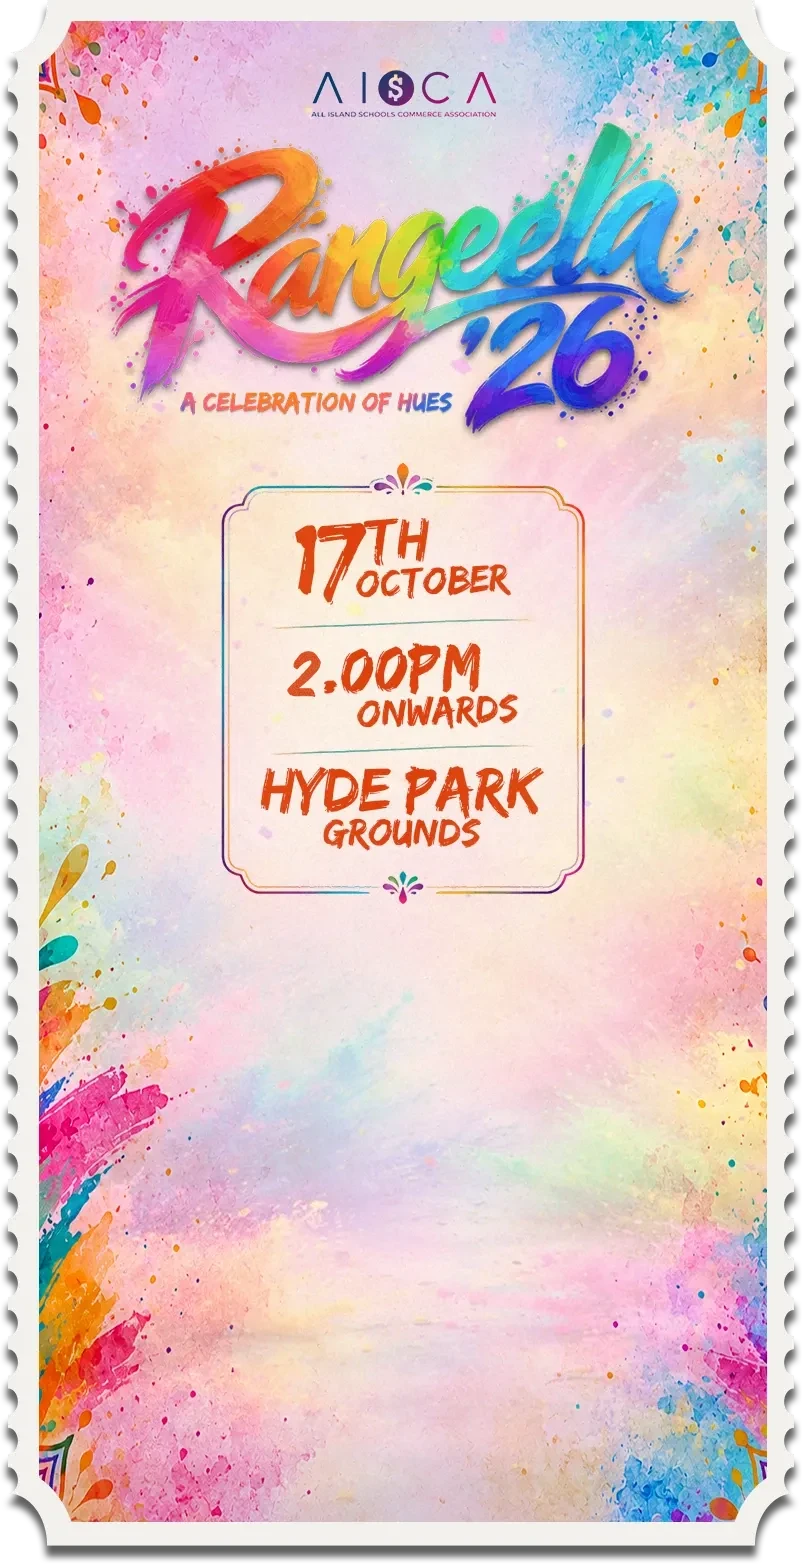
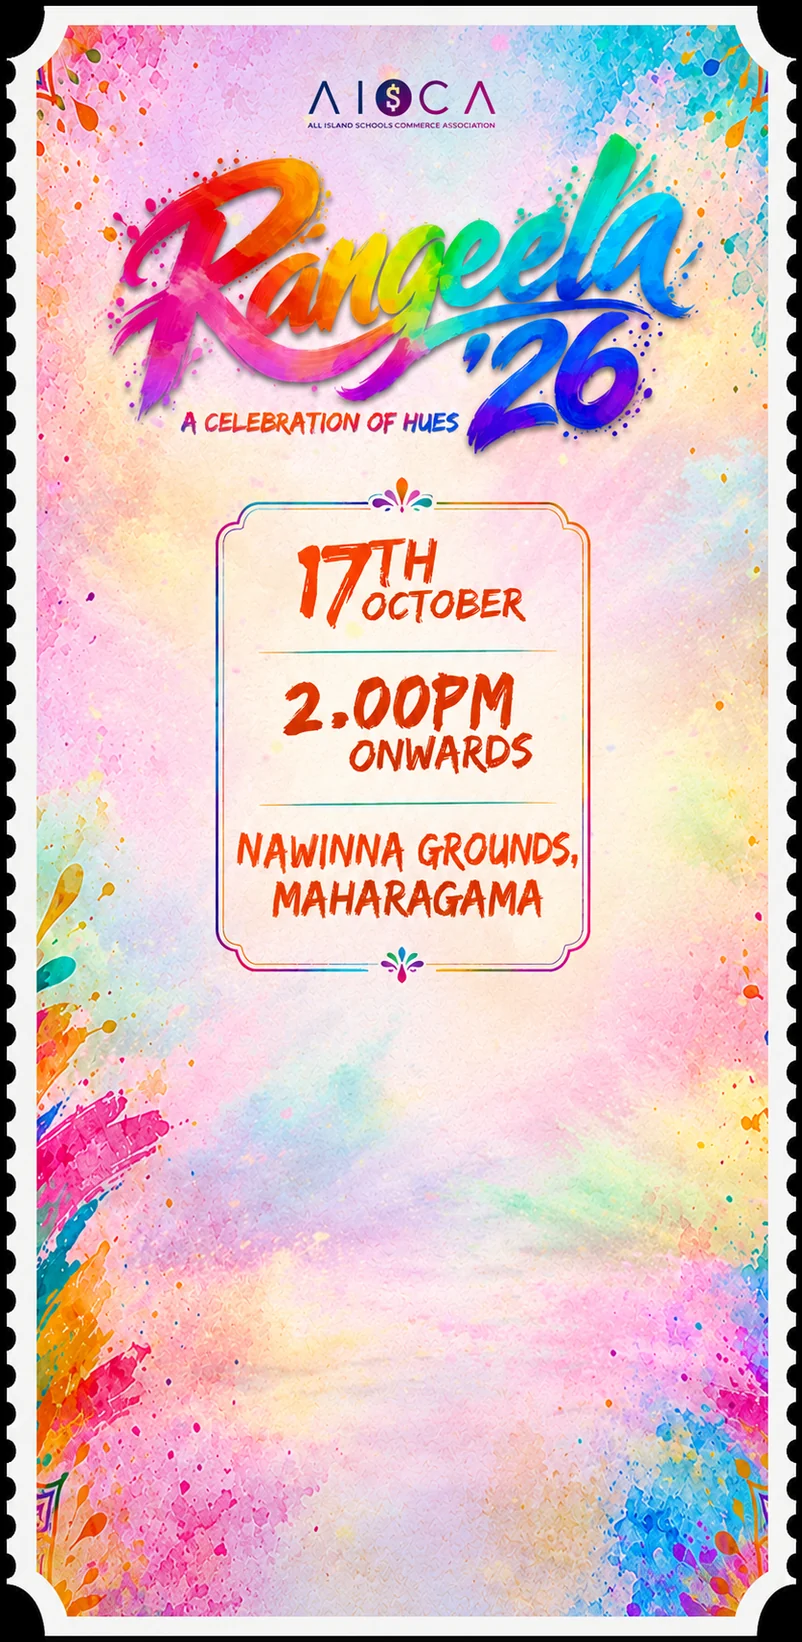
RANGEELA 26: new ticket artwork and Maharagama in the venue

diff --git a/src/app/rangeela26/page.tsx b/src/app/rangeela26/page.tsx
@@ -7,19 +7,19 @@ export const dynamic = 'force-dynamic'
 export const metadata: Metadata = {
   title: "RANGEELA '26 | A Celebration of Hues",
   description:
-    "RANGEELA '26 by AISCA. One canvas, a thousand hues. Saturday 17th October 2026, 2.00 PM onwards at Nawinna Grounds. Early bird tickets LKR 1,000 until 10th October, then LKR 1,200 online and LKR 1,500 at the gate.",
+    "RANGEELA '26 by AISCA. One canvas, a thousand hues. Saturday 17th October 2026, 2.00 PM onwards at Nawinna Grounds, Maharagama. Early bird tickets LKR 1,000 until 10th October, then LKR 1,200 online and LKR 1,500 at the gate.",
   alternates: { canonical: 'https://aisca.lk/rangeela26' },
   openGraph: {
     type: 'website',
     url: 'https://aisca.lk/rangeela26',
     title: "RANGEELA '26 | A Celebration of Hues",
-    description: 'The colours are calling. 17th October, Nawinna Grounds, 2.00 PM onwards. Early bird tickets LKR 1,000.',
+    description: 'The colours are calling. 17th October, Nawinna Grounds, Maharagama, 2.00 PM onwards. Early bird tickets LKR 1,000.',
     images: [{ url: 'https://aisca.lk/rangeela/og.jpg', width: 1200, height: 630, alt: "RANGEELA '26 A Celebration of Hues" }],
   },
   twitter: {
     card: 'summary_large_image',
     title: "RANGEELA '26 | A Celebration of Hues",
-    description: 'The colours are calling. 17th October, Nawinna Grounds. Early bird tickets LKR 1,000.',
+    description: 'The colours are calling. 17th October, Nawinna Grounds, Maharagama. Early bird tickets LKR 1,000.',
     images: ['https://aisca.lk/rangeela/og.jpg'],
   },
 }

diff --git a/src/app/rangeela26/ticket/[token]/TicketView.tsx b/src/app/rangeela26/ticket/[token]/TicketView.tsx
@@ -4,12 +4,12 @@ import { useState } from 'react'
 
 // The RANGEELA '26 ticket, drawn on the official ticket artwork with the
 // student's own QR code, name and ticket number in the empty space.
-// Positions are percentages of the artwork (802 x 1564) so it looks the
+// Positions are percentages of the artwork (802 x 1642) so it looks the
 // same on every screen, and "Save ticket" paints the same layout onto a
 // canvas so students can keep a copy in their photos.
 
 const W = 802
-const H = 1564
+const H = 1642
 const INK = '#241628'
 const ORANGE = '#D9480F'
 const VIOLET = '#7B2FF7'
@@ -18,11 +18,11 @@ const BODY = "'Inter', -apple-system, BlinkMacSystemFont, system-ui, sans-serif"
 
 // Layout on the artwork, in artwork pixels
 const L = {
-  nameY: 948,
-  schoolY: 992,
-  qrX: 214, qrY: 1020, qrSize: 374, qrPad: 20,
-  pillY: 1432,
-  noteY: 1482,
+  nameY: 1024,
+  schoolY: 1067,
+  qrX: 216, qrY: 1095, qrSize: 369, qrPad: 20,
+  pillY: 1503,
+  noteY: 1556,
 }
 
 type Props = {
@@ -151,7 +151,7 @@ export default function TicketView(p: Props) {
               <a className="tk-btn tk-btn-wa" href={p.whatsappGroup} target="_blank" rel="noopener noreferrer">Join the WhatsApp group</a>
             </div>
             {saveError && <p className="tk-err">{saveError}</p>}
-            <p className="tk-foot">Saturday, 17th October 2026 · 2.00 PM onwards · Nawinna Grounds</p>
+            <p className="tk-foot">Saturday, 17th October 2026 · 2.00 PM onwards · Nawinna Grounds, Maharagama</p>
           </>
         )}
       </div>

diff --git a/src/lib/rangeela-email.ts b/src/lib/rangeela-email.ts
@@ -87,7 +87,7 @@ export async function sendRangeelaReceivedEmail({ to, name, ticketNumber, amount
         <td width="4"></td>
         <td width="33%" style="padding:10px 6px;text-align:center;background:#EEF6FF;border-radius:12px;"><p style="margin:0;font-size:10px;letter-spacing:1.5px;text-transform:uppercase;color:#6B7FA0;font-family:${FONT};">Time</p><p style="margin:4px 0 0;font-size:14px;font-weight:bold;color:#2563EB;font-family:${FONT};">2.00 PM onwards</p></td>
         <td width="4"></td>
-        <td width="33%" style="padding:10px 6px;text-align:center;background:#F5EEFF;border-radius:12px;"><p style="margin:0;font-size:10px;letter-spacing:1.5px;text-transform:uppercase;color:#8A76A8;font-family:${FONT};">Venue</p><p style="margin:4px 0 0;font-size:14px;font-weight:bold;color:#7B2FF7;font-family:${FONT};">Nawinna Grounds</p></td>
+        <td width="33%" style="padding:10px 6px;text-align:center;background:#F5EEFF;border-radius:12px;"><p style="margin:0;font-size:10px;letter-spacing:1.5px;text-transform:uppercase;color:#8A76A8;font-family:${FONT};">Venue</p><p style="margin:4px 0 0;font-size:14px;font-weight:bold;color:#7B2FF7;font-family:${FONT};">Nawinna Grounds, Maharagama</p></td>
       </tr>
     </table>
   </td></tr>

diff --git a/src/app/rangeela26/RangeelaClient.tsx b/src/app/rangeela26/RangeelaClient.tsx
@@ -235,7 +235,7 @@ export default function RangeelaClient({ serverNow }: { serverNow: number }) {
             {[
               { icon: CalendarDays, label: 'Date', value: RANGEELA.dateShort, sub: 'Saturday', color: C.orange },
               { icon: Clock, label: 'Time', value: '2.00 PM', sub: 'onwards', color: C.magenta },
-              { icon: MapPin, label: 'Venue', value: 'Nawinna', sub: 'Grounds', color: C.blue },
+              { icon: MapPin, label: 'Venue', value: 'Nawinna', sub: 'Grounds, Maharagama', color: C.blue },
               { icon: Ticket, label: early ? 'Early bird' : 'Ticket', value: lkr(price), sub: early ? 'until 10th Oct' : 'online, per person', color: C.violet },
             ].map((x) => (
               <div key={x.label} className="lg-glass lg-fact">

diff --git a/src/lib/rangeela.ts b/src/lib/rangeela.ts
@@ -8,8 +8,8 @@ export const RANGEELA = {
   dateLabel: 'Saturday, 17th October 2026',
   dateShort: '17th October',
   timeLabel: '2.00 PM onwards',
-  venue: 'Nawinna Grounds',
-  venueArea: 'Colombo',
+  venue: 'Nawinna Grounds, Maharagama',
+  venueArea: 'Maharagama',
   price: 1200,          // standard online price (after early bird)
   // Online ticket sales close at this moment (Sri Lanka time).
   salesCloseISO: '2026-10-17T12:00:00+05:30',
